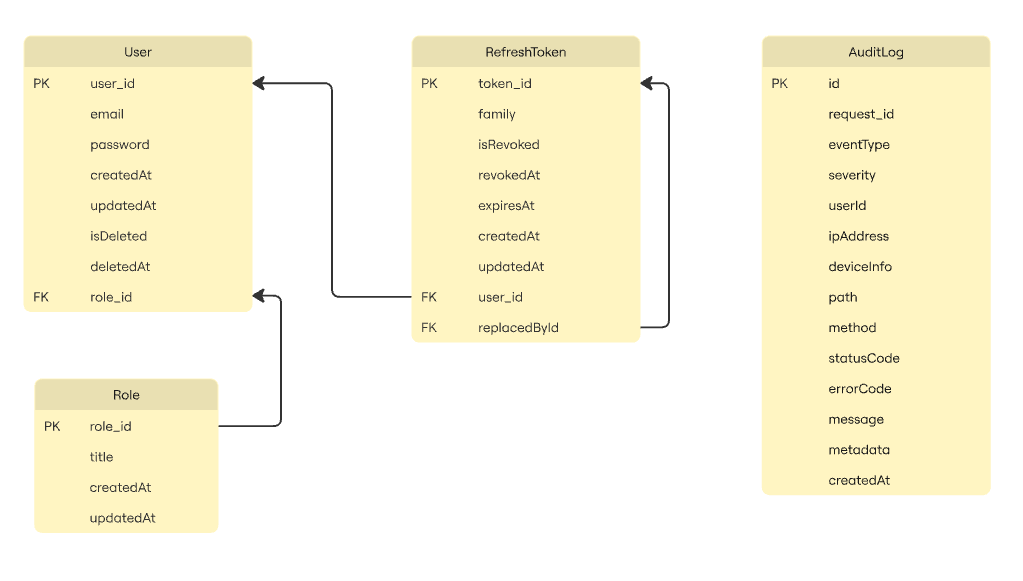
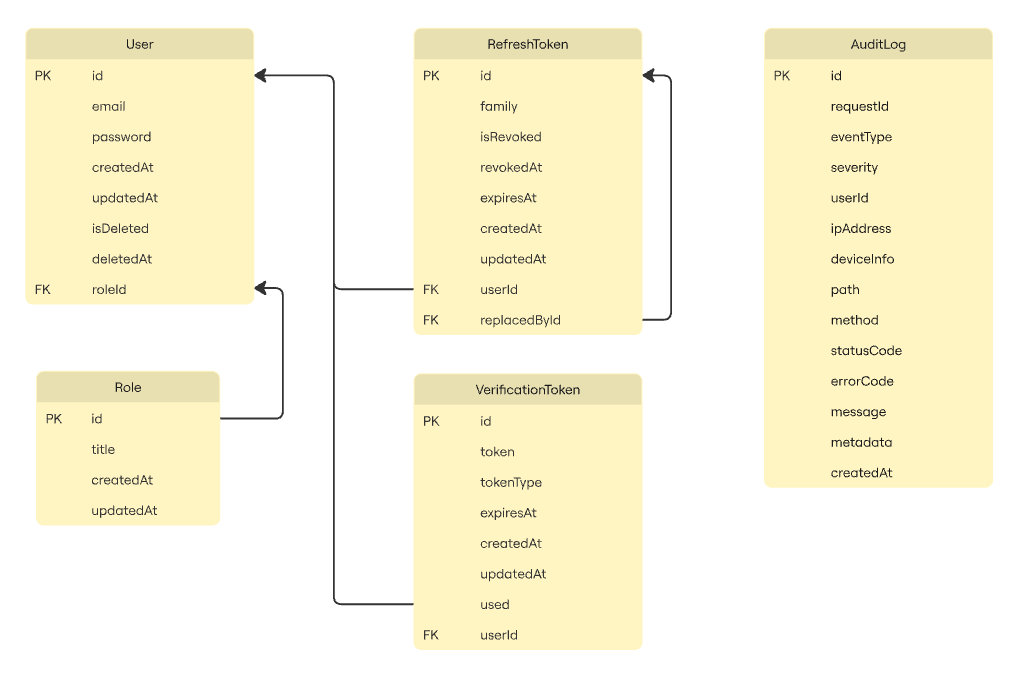
[Shared] update readme.md at end of Phase 1

diff --git a/README.md b/README.md
@@ -203,6 +203,7 @@ The schema defines relationships between Users, Roles, and RefreshTokens to supp
 - **UUID v7 identifiers** for time-ordered database performance while maintaining global uniqueness.
 - **Decoupled AuditLog table** (no foreign keys) to preserve log immutability even after user deletion.
 - **Salted password hashes** to ensure no plaintext credentials exist in the database.
+- **VerificationToken table** for time-limited, single-use tokens supporting password reset and account deletion workflows.
 
 <p align="center">
     <br>
@@ -218,6 +219,7 @@ After generating the service with the NestJS CLI, I aligned it with the monorepo
 - **Configuration Alignment:** Extended shared TypeScript and ESLint packages to ensure consistent linting and compiler settings across microservices.
 - **Vitest Migration:** Replaced the default Jest setup with Vitest for better monorepo performance and native ESM support.
 - **Turborepo Integration:** Added the service to the Turborepo pipeline, enabling root-level commands (`dev`, `build`, `test`) to manage all workspace packages.
+- **API Documentation & Type Safety:** Integrated Swagger with full endpoint annotations. Generated an OpenAPI spec to automatically create a typed HTTP client as a shared monorepo package, ensuring type-safe API consumption across services.
 
 To avoid repeating this manual configuration, the service was cloned twice to bootstrap the Product and User Data Services (Phases 2-3).
 
@@ -255,6 +257,12 @@ To handle edge cases like concurrent requests and reuse attacks, I designed the 
     <br>
     <i>Refresh token decision flow visualizing the scenarios above</i>
 </p>
+
+##### Account Lifecycle & Recovery
+
+- **Forgot Password:** Implements a time-limited password reset flow using hashed verification tokens (15-minute expiration). Prevents user enumeration by returning generic success messages regardless of email existence.
+- **Account Deletion:** Supports GDPR-compliant user deletion with a 30-day grace period. Users receive a verification token via email to cancel deletion before final anonymization of audit logs and hard deletion of user data.
+- **Email Notifications:** Implemented email delivery for password reset and account deletion flows using Nodemailer with server-side template rendering.
 
 ##### Network Security
 
